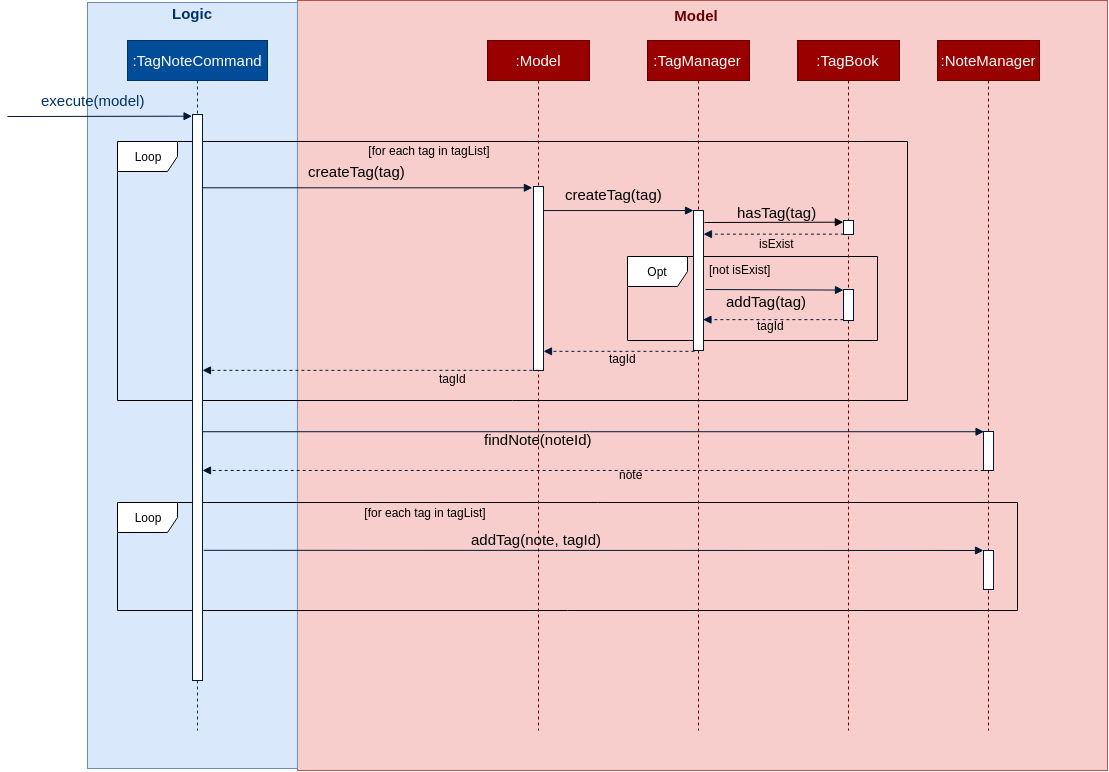
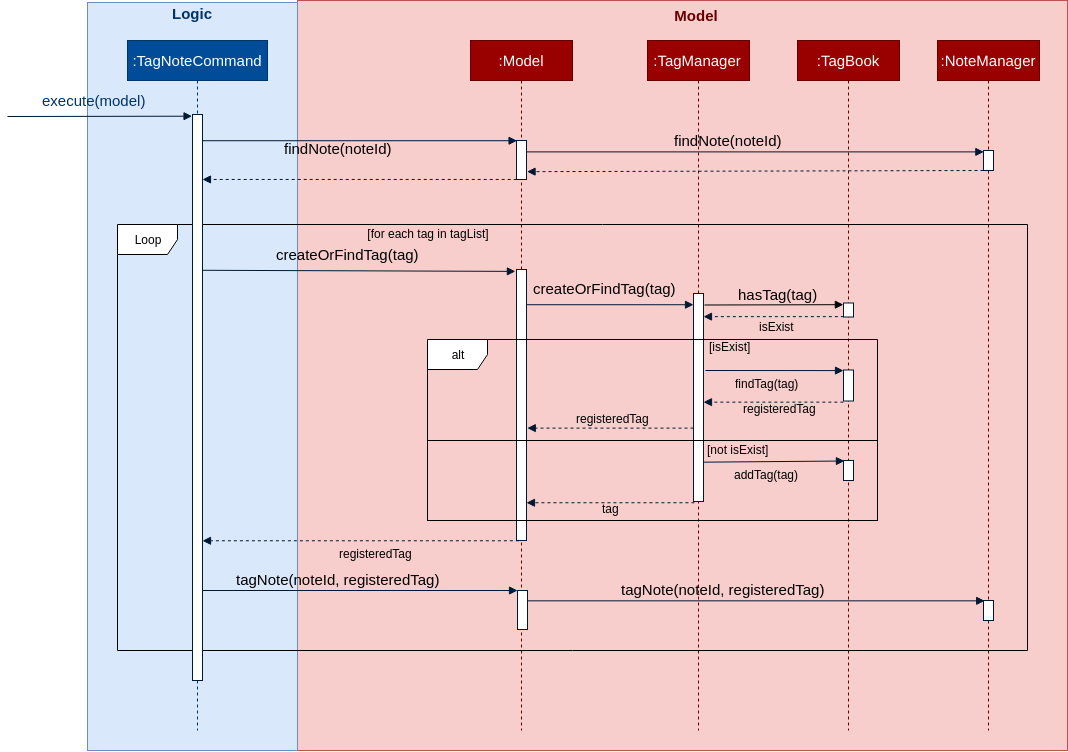
Rebuild pages at 5aeeddb9163a3f381946300bc8701ca486c36916

diff --git a/DeveloperGuide.html b/DeveloperGuide.html
@@ -54,16 +54,16 @@
 <li><a href="#design-considerations-2">3.2.3. Design Considerations</a></li>
 </ul>
 </li>
-<li><a href="#proposed-tagging-feature">3.3. [Proposed] Tagging feature</a>
+<li><a href="#tagging-feature">3.3. Tagging feature</a>
 <ul class="sectlevel3">
 <li><a href="#description-3">3.3.1. Description</a></li>
-<li><a href="#proposed-implementation">3.3.2. Proposed Implementation</a></li>
+<li><a href="#implementation-4">3.3.2. Implementation</a></li>
 </ul>
 </li>
 <li><a href="#note-filtering-feature">3.4. Note filtering feature</a>
 <ul class="sectlevel3">
 <li><a href="#description-4">3.4.1. Description</a></li>
-<li><a href="#implementation-4">3.4.2. Implementation</a></li>
+<li><a href="#implementation-5">3.4.2. Implementation</a></li>
 </ul>
 </li>
 <li><a href="#logging">3.5. Logging</a></li>
@@ -92,6 +92,8 @@
 <li><a href="#list-all-available-groups">F.10. List all available groups</a></li>
 <li><a href="#find-a-specific-group">F.11. Find a specific group</a></li>
 <li><a href="#deleting-a-group">F.12. Deleting a group</a></li>
+<li><a href="#tagging-a-note">F.13. Tagging a note</a></li>
+<li><a href="#untagging-a-note">F.14. Untagging a note</a></li>
 </ul>
 </li>
 </ul>
@@ -1176,7 +1178,7 @@ the members in <code>Group</code>.</p>
 </div>
 </div>
 <div class="sect2">
-<h3 id="proposed-tagging-feature"><a class="link" href="#proposed-tagging-feature">3.3. [Proposed] Tagging feature</a></h3>
+<h3 id="tagging-feature"><a class="link" href="#tagging-feature">3.3. Tagging feature</a></h3>
 <div class="sect3">
 <h4 id="description-3"><a class="link" href="#description-3">3.3.1. Description</a></h4>
 <div class="paragraph">
@@ -1184,7 +1186,7 @@ the members in <code>Group</code>.</p>
 </div>
 </div>
 <div class="sect3">
-<h4 id="proposed-implementation"><a class="link" href="#proposed-implementation">3.3.2. Proposed Implementation</a></h4>
+<h4 id="implementation-4"><a class="link" href="#implementation-4">3.3.2. Implementation</a></h4>
 <div class="paragraph">
 <p>In order to add tagging feature we will need to take a look at two processes, which are the tag command creation and the
  execution of the command.</p>
@@ -1202,14 +1204,15 @@ the members in <code>Group</code>.</p>
 </div>
 <div class="imageblock">
 <div class="content">
-<img src="images/CreatingTagNoteCommand.png" alt="CreatingTagNoteCommand">
+<img src="images/CreatingTagNoteCommand.png" alt="CreatingTagNoteCommand" width="600">
 </div>
 </div>
 <div class="paragraph">
 <p><strong>Step 2:</strong> <code>NoteParserUtil</code> will be used to create a <code>noteId</code> object.</p>
 </div>
 <div class="paragraph">
-<p><strong>Step 3:</strong> Finally, <code>TagParserUtil</code> will be used to create <code>tag</code> objects. All of them will be aggregated inside a <code>tagList</code>.</p>
+<p><strong>Step 3:</strong> Finally, <code>TagParserUtil</code> will be used to create <code>tag</code> objects. All of them will be aggregated inside a
+<code>tagList</code> before being passed to the <code>TagNoteCommand</code> Constructor.</p>
 </div>
 <div class="paragraph">
 <p>This whole process has created a <code>TagNoteCommand</code> object from user input.</p>
@@ -1224,22 +1227,23 @@ the members in <code>Group</code>.</p>
 <p>Given below is an example scenario when the tagging command gets executed.</p>
 </div>
 <div class="paragraph">
-<p><strong>Step 1:</strong> The <code>TagNoteCommand</code> will first exchange each tag with a tagId through model. Internally, model will have to
-interact with TagManager which will find the tag or create it if it does not exist.</p>
+<p><strong>Step 1:</strong> The <code>TagNoteCommand</code> interact with <code>NoteManager</code> through <code>model</code> to find the note to be tagged.</p>
 </div>
 <div class="imageblock">
 <div class="content">
-<img src="images/ExecutingTagNoteCommand.png" alt="ExecutingTagNoteCommand">
+<img src="images/ExecutingTagNoteCommand.png" alt="ExecutingTagNoteCommand" width="600">
 </div>
 </div>
 <div class="paragraph">
-<p><strong>Step 2:</strong> The <code>TagNoteCommand</code> then interact with <code>NoteManager</code> in order to find the corresponding note.</p>
+<p><strong>Step 2:</strong> The <code>TagNoteCommand</code> then exchange each tag with another tag which is registered inside the model.
+Internally, model will have to interact with <code>TagManager</code> which will find the registered tag or register one if it does
+not exist inside model.</p>
 </div>
 <div class="paragraph">
-<p><strong>Step 3:</strong> Finally, each <code>tagId</code> will be added to note through <code>NoteManager</code>.</p>
+<p><strong>Step 3:</strong> Finally, the note will be tagged with the registered tag using model.</p>
 </div>
 <div class="paragraph">
-<p>This whole process has executed the <code>TagNoteCommand</code>.</p>
+<p>This whole process has successfully executed the <code>TagNoteCommand</code>.</p>
 </div>
 </div>
 </div>
@@ -1272,7 +1276,7 @@ interact with TagManager which will find the tag or create it if it does not exi
 </div>
 </div>
 <div class="sect3">
-<h4 id="implementation-4"><a class="link" href="#implementation-4">3.4.2. Implementation</a></h4>
+<h4 id="implementation-5"><a class="link" href="#implementation-5">3.4.2. Implementation</a></h4>
 <div class="paragraph">
 <p>The note filter mechanism is facilitated by the <a href="https://github.com/AY1920S1-CS2103T-F12-3/main/tree/master/src/main/java/tagline/logic/commands/note/NoteFilter.java"><code>NoteFilter</code></a> class.
 It contains the filter value and the enum <code>FilterType</code>.</p>
@@ -2466,5 +2470,145 @@ Expected: UI is unchanged. Status message indicates "The group name provided cou
 </ol>
 </div>
 </div>
+<div class="sect2">
+<h3 id="tagging-a-note"><a class="link" href="#tagging-a-note">F.13. Tagging a note</a></h3>
+<div class="olist arabic">
+<ol class="arabic">
+<li>
+<p><strong>Prerequisites</strong>: Enter <code>note list</code> command to view all notes. Ensure that note with id <code>1</code> exists. Otherwise,
+take any other note or create one and replace all id <code>1</code> with the chosen note&#8217;s id in each of the following test cases.</p>
+</li>
+<li>
+<p>Tagging a note with hash tag.</p>
+<div class="olist loweralpha">
+<ol class="loweralpha" type="a">
+<li>
+<p><strong>Prerequisites</strong>: Note with id <code>1</code> is not tagged with <code>#any topic</code>, <code>#topic1</code>, <code>#topic2</code>, and <code>#topic3</code>.</p>
+</li>
+<li>
+<p><strong>Test case</strong>: <code>note tag 1 --t #any topic</code><br>
+   <strong>Expected</strong>: Note successfully tagged with <code>#any topic</code> which should be reflected in the response message and in
+the note view.</p>
+</li>
+<li>
+<p><strong>Test case</strong>: Enter <code>note tag 1 --t #any topic</code> twice<br>
+   <strong>Expected</strong>: The first time we enter the command, it should succeed normally as described in the previous test case
+whereas the second time we enter the same command, we would get an error message saying that the tag has been tagged
+to the note.</p>
+</li>
+<li>
+<p><strong>Test case</strong>: <code>note tag 1 --t #topic1 --t #topic2 --t #topic3</code><br>
+   <strong>Expected</strong>: Note successfully tagged with the three hash tag which should be reflected in the response message and in
+the note view.</p>
+</li>
+<li>
+<p><strong>Test case</strong>: Enter <code>note tag 1 --t #topic1 --t #topic2</code> then enter <code>note tag 1 --t #topic1 --t #topic3</code><br>
+   <strong>Expected</strong>: The first time we enter the command, it should succeed normally as described in the previous test case
+whereas the second time we enter the next command, we would get an error message saying that there are tags which have
+been tagged to the note. In this case, it is <code>#topic1</code></p>
+</li>
+<li>
+<p><strong>Test case</strong>: Enter <code>note tag 1 --t #0123456789012345678901234567890</code><br>
+<strong>Expected</strong>: We will get an error message saying that the maximum character for hash tag is 30.</p>
+</li>
+</ol>
 </div>
-</div></div><div id="footer"><div class="container"><div id="footer-text">Last updated 2019-11-11 12:52:30 UTC</div></div></div></body></html>
+</li>
+<li>
+<p>Tagging a note with contact tag</p>
+</li>
+<li>
+<p>Tagging a note with group tag</p>
+</li>
+<li>
+<p>Tagging a note with all types of tag</p>
+<div class="olist loweralpha">
+<ol class="loweralpha" type="a">
+<li>
+<p><strong>Prerequisites</strong>: There is a contact with id <code>1</code>, otherwise you may choose any other existing contact id. There is a
+group with name <code>BTS</code>, otherwise you may create one. Note
+with id <code>1</code> is not tagged with <code>#topic</code>, <code>@00001</code> and <code>%BTS</code>.</p>
+</li>
+<li>
+<p><strong>Test case</strong>: <code>note tag 1 --t #topic --t @00001 --t %BTS</code><br>
+   <strong>Expected</strong>: Note successfully tagged with the three hash tag which should be reflected in the response message and in
+the note view.</p>
+</li>
+</ol>
+</div>
+</li>
+</ol>
+</div>
+</div>
+<div class="sect2">
+<h3 id="untagging-a-note"><a class="link" href="#untagging-a-note">F.14. Untagging a note</a></h3>
+<div class="olist arabic">
+<ol class="arabic">
+<li>
+<p><strong>Prerequisites</strong>: Enter <code>note list</code> command to view all notes. Ensure that note with id <code>1</code> exists. Otherwise,
+take any other note or create one and replace all id <code>1</code> with the chosen note&#8217;s id in each of the following test cases.</p>
+</li>
+<li>
+<p>Untagging a note with hash tag.</p>
+<div class="olist loweralpha">
+<ol class="loweralpha" type="a">
+<li>
+<p><strong>Prerequisites</strong>: Note with id <code>1</code> is tagged with <code>#any topic</code>, <code>#topic1</code>, <code>#topic2</code>, and <code>#topic3</code>.</p>
+</li>
+<li>
+<p><strong>Test case</strong>: <code>note untag 1 --t #any topic</code><br>
+   <strong>Expected</strong>: Note successfully untagged with <code>#any topic</code> which should be reflected in the response message and in
+the note view.</p>
+</li>
+<li>
+<p><strong>Test case</strong>: Enter <code>note untag 1 --t #any topic</code> twice<br>
+   <strong>Expected</strong>: The first time we enter the command, it should succeed normally as described in the previous test case
+whereas the second time we enter the same command, we would get an error message saying that the tag is not tagged
+to the note.</p>
+</li>
+<li>
+<p><strong>Test case</strong>: <code>note untag 1 --t #topic1 --t #topic2 --t #topic3</code><br>
+   <strong>Expected</strong>: Note successfully untagged with the three hash tag which should be reflected in the response message
+and in the note view.</p>
+</li>
+<li>
+<p><strong>Test case</strong>: Enter <code>note untag 1 --t #topic1 --t #topic2</code> then enter <code>note tag 1 --t #topic1 --t #topic3</code><br>
+   <strong>Expected</strong>: The first time we enter the command, it should succeed normally as described in the previous test case
+whereas the second time we enter the next command, we would get an error message saying that there are tags which are
+not tagged to the note. In this case, it is <code>#topic1</code></p>
+</li>
+<li>
+<p><strong>Test case</strong>: Enter <code>note untag 1 --t #0123456789012345678901234567890</code><br>
+<strong>Expected</strong>: We will get an error message saying that the maximum character for hash tag is 30.</p>
+</li>
+</ol>
+</div>
+</li>
+<li>
+<p>Untagging a note with contact tag</p>
+</li>
+<li>
+<p>Untagging a note with group tag</p>
+</li>
+<li>
+<p>Untagging a note with all types of tag</p>
+<div class="olist loweralpha">
+<ol class="loweralpha" type="a">
+<li>
+<p><strong>Prerequisites</strong>: There is a contact with id <code>1</code>, otherwise you may choose any other existing contact id. There is a
+group with name <code>BTS</code>, otherwise you may create one. Note
+with id <code>1</code> is tagged with <code>#topic</code>, <code>@00001</code> and <code>%BTS</code>.</p>
+</li>
+<li>
+<p><strong>Test case</strong>: <code>note untag 1 --t #topic --t @00001 --t %BTS</code><br>
+   <strong>Expected</strong>: Note successfully untagged with the three hash tag which should be reflected in the response message
+and in the note view.</p>
+</li>
+</ol>
+</div>
+</li>
+</ol>
+</div>
+</div>
+</div>
+</div></div><div id="footer"><div class="container"><div id="footer-text">Last updated 2019-11-11 13:57:49 UTC</div></div></div></body></html>

diff --git a/ContactUs.html b/ContactUs.html
@@ -6,4 +6,4 @@
 <p><strong>Bug reports, Suggestions</strong> : Post in our <a href="https://github.com/AY1920S1-CS2103T-F12-3/main/issues">issue tracker</a> if you noticed bugs or have suggestions on how to improve.</p>
 </li>
 </ul>
-</div></div><div id="footer"><div class="container"><div id="footer-text">Last updated 2019-11-11 12:52:30 UTC</div></div></div></body></html>
+</div></div><div id="footer"><div class="container"><div id="footer-text">Last updated 2019-11-11 13:57:49 UTC</div></div></div></body></html>

diff --git a/tutorials/RemovingFields.html b/tutorials/RemovingFields.html
@@ -175,4 +175,4 @@ While keeping the <code>address</code> field in the json files does not cause th
 <p>You can go through each individual <code>json</code> file and manually remove the <code>address</code> field.</p>
 </div>
 </div>
-</div></div><div id="footer"><div class="container"><div id="footer-text">Last updated 2019-11-11 12:52:30 UTC</div></div></div></body></html>
+</div></div><div id="footer"><div class="container"><div id="footer-text">Last updated 2019-11-11 13:57:49 UTC</div></div></div></body></html>

diff --git a/Testing.html b/Testing.html
@@ -90,4 +90,4 @@ e.g. <code>seedu.address.logic.LogicManagerTest</code></p>
 <div class="title">Figure 1. <code>Accessibility</code> permission is granted to <code>IntelliJ IDEA</code></div>
 </div>
 </div>
-</div></div><div id="footer"><div class="container"><div id="footer-text">Last updated 2019-11-11 12:52:30 UTC</div></div></div></body></html>
+</div></div><div id="footer"><div class="container"><div id="footer-text">Last updated 2019-11-11 13:57:49 UTC</div></div></div></body></html>

diff --git a/tutorials/AddRemark.html b/tutorials/AddRemark.html
@@ -616,4 +616,4 @@ In this case, <code>CommandTestUtil#assertCommandSuccess</code> is the best fit 
 <p>This concludes the tutorial for adding a new <code>Command</code> to AddressBook.</p>
 </div>
 </div>
-</div></div><div id="footer"><div class="container"><div id="footer-text">Last updated 2019-11-11 12:52:30 UTC</div></div></div></body></html>
+</div></div><div id="footer"><div class="container"><div id="footer-text">Last updated 2019-11-11 13:57:49 UTC</div></div></div></body></html>

diff --git a/UserGuide.html b/UserGuide.html
@@ -1429,4 +1429,4 @@ note, it will still appear in this. The tag list serves as a history to remind y
 </div>
 </div>
 </div>
-</div></div><div id="footer"><div class="container"><div id="footer-text">Last updated 2019-11-11 12:52:30 UTC</div></div></div></body></html>
+</div></div><div id="footer"><div class="container"><div id="footer-text">Last updated 2019-11-11 13:57:49 UTC</div></div></div></body></html>

diff --git a/AboutUs.html b/AboutUs.html
@@ -154,4 +154,4 @@ We are a team based in the <a href="http://www.comp.nus.edu.sg">School of Comput
 </div>
 </div>
 </div>
-</div></div><div id="footer"><div class="container"><div id="footer-text">Last updated 2019-11-11 12:52:30 UTC</div></div></div></body></html>
+</div></div><div id="footer"><div class="container"><div id="footer-text">Last updated 2019-11-11 13:57:49 UTC</div></div></div></body></html>

diff --git a/LearningOutcomes.html b/LearningOutcomes.html
@@ -474,4 +474,4 @@ of storages, but different number of storages (e.g. save to both a text file and
 </div>
 </div>
 </div>
-</div></div><div id="footer"><div class="container"><div id="footer-text">Last updated 2019-11-11 12:52:30 UTC</div></div></div></body></html>
+</div></div><div id="footer"><div class="container"><div id="footer-text">Last updated 2019-11-11 13:57:49 UTC</div></div></div></body></html>

diff --git a/SettingUp.html b/SettingUp.html
@@ -180,4 +180,4 @@ Having both Travis and AppVeyor ensures your App works on both Unix-based platfo
 </div>
 </div>
 </div>
-</div></div><div id="footer"><div class="container"><div id="footer-text">Last updated 2019-11-11 12:52:30 UTC</div></div></div></body></html>
+</div></div><div id="footer"><div class="container"><div id="footer-text">Last updated 2019-11-11 13:57:49 UTC</div></div></div></body></html>

diff --git a/UsingCoveralls.html b/UsingCoveralls.html
@@ -111,4 +111,4 @@ If you have not set up Travis CI, see <a href="UsingTravis.html">UsingTravis.ado
 </ol>
 </div>
 </div>
-</div></div><div id="footer"><div class="container"><div id="footer-text">Last updated 2019-11-11 12:52:30 UTC</div></div></div></body></html>
+</div></div><div id="footer"><div class="container"><div id="footer-text">Last updated 2019-11-11 13:57:49 UTC</div></div></div></body></html>

diff --git a/UsingGradle.html b/UsingGradle.html
@@ -228,4 +228,4 @@ See <code>build.gradle</code> &#8594; <code>allprojects</code> &#8594; <code>dep
 </ul>
 </div>
 </div>
-</div></div><div id="footer"><div class="container"><div id="footer-text">Last updated 2019-11-11 12:52:30 UTC</div></div></div></body></html>
+</div></div><div id="footer"><div class="container"><div id="footer-text">Last updated 2019-11-11 13:57:49 UTC</div></div></div></body></html>

diff --git a/UsingNetlify.html b/UsingNetlify.html
@@ -138,4 +138,4 @@ The publish directory is the directory in which the built HTML documentation res
 </ol>
 </div>
 </div>
-</div></div><div id="footer"><div class="container"><div id="footer-text">Last updated 2019-11-11 12:52:30 UTC</div></div></div></body></html>
+</div></div><div id="footer"><div class="container"><div id="footer-text">Last updated 2019-11-11 13:57:49 UTC</div></div></div></body></html>
